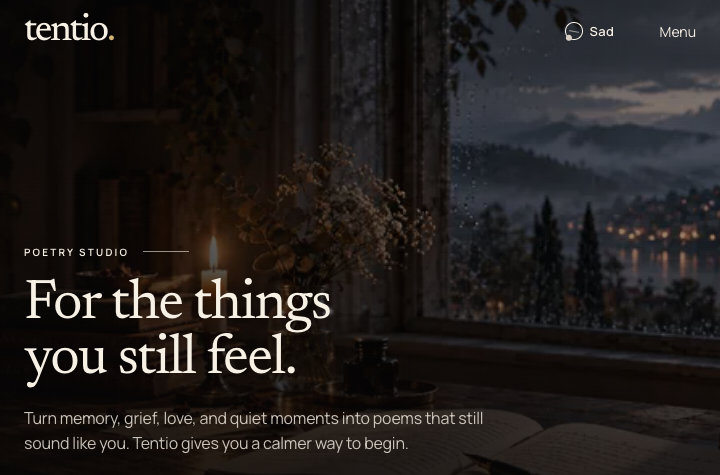
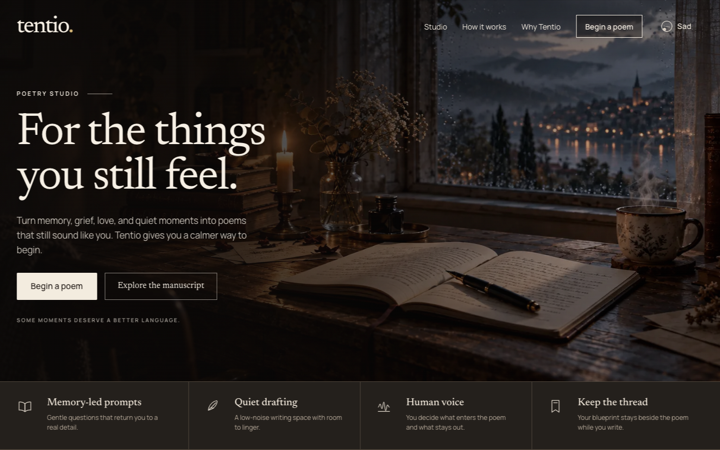
fix: refine Tentio mobile preview spacing

diff --git a/src/project-cards-editorial.css b/src/project-cards-editorial.css
@@ -6,6 +6,10 @@
   max-width: 1180px;
 }
 
+.work {
+  padding-bottom: 40px;
+}
+
 .work .filters {
   align-items: center;
   gap: 0;
@@ -474,10 +478,6 @@
   .project.weather .project-visual,
   .project.neon .project-visual {
     aspect-ratio: 1.45;
-  }
-
-  .project.tentio .project-visual img {
-    object-position: left top;
   }
 
   .project-lab {
